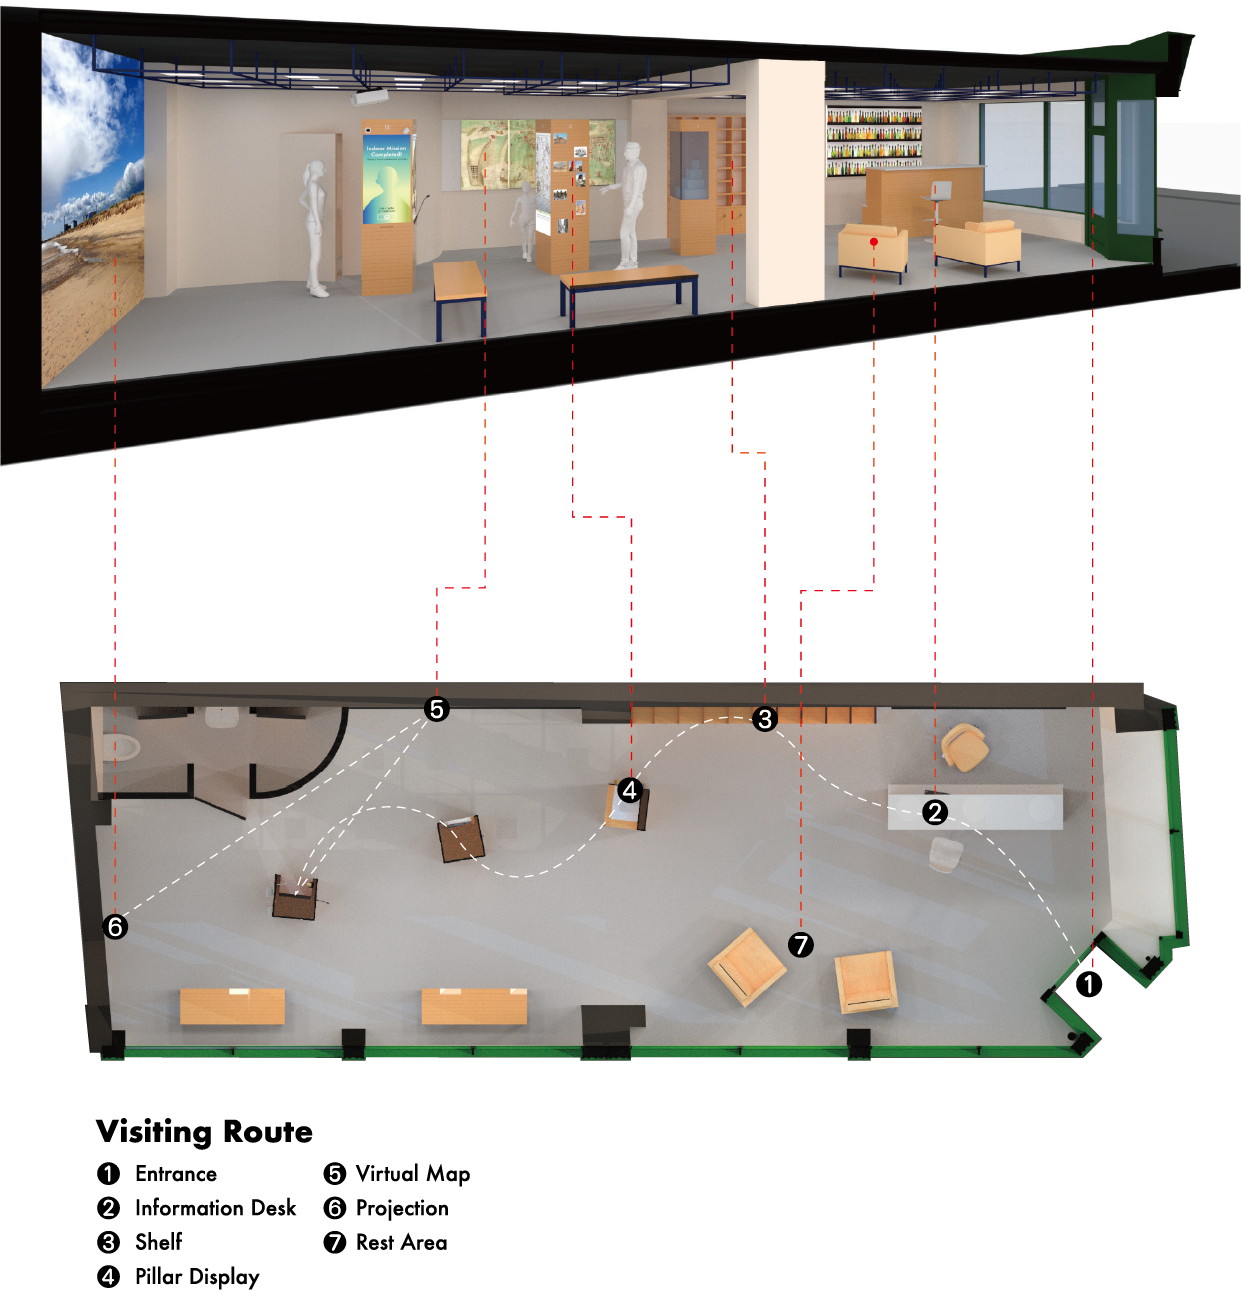
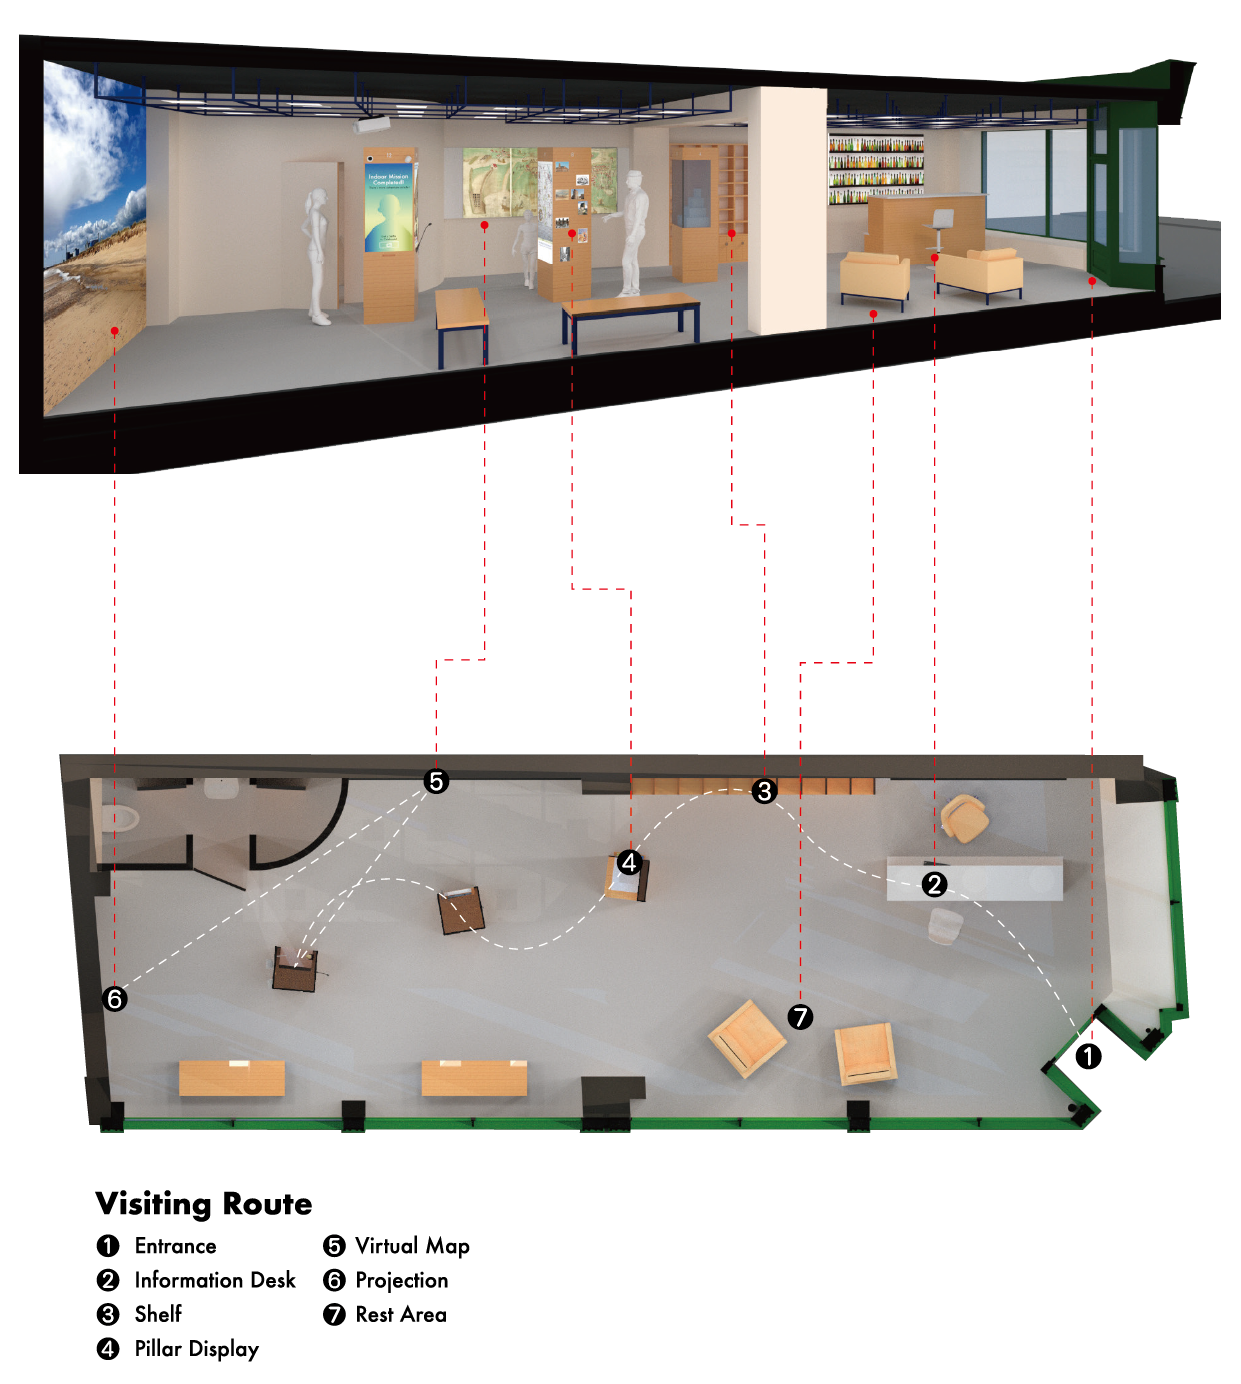
pb

Changed region(s): [[0.0, 0.0, 1.0, 0.3741], [0.0306, 0.4989, 0.9799, 0.9977], [0.9186, 0.6236, 0.9492, 0.6548]]

diff --git a/gy.html b/gy.html
@@ -122,25 +122,7 @@
             </div>
           </div>
         </div>
-        <!-- <div class="">
-          <div class="inner-intro">
-            <div class="container">
-              <div class="row">
-                <div class="col-lg-6 col-sm-4">
-                  <div class="h2 italic-title">
-                    Background
-                  </div>
-                </div>
-                <div class="col-lg-6 col-sm-8">
-                  <p><strong class="italic-title h5">About Great Yarmouth & Great Yarmouth Preservation Trust:</strong></p>
-                  <p>Great Yarmouth is a renowned coastal town in England. Positioned strategically between Britain and Europe, it holds significant historical importance in British trade.</p>
-                  <p>The client for this project is the Great Yarmouth Preservation Trust, established in 1979. Dedicated to preserving, protecting, and promoting the heritage of Great Yarmouth, it stands as one of the longest-established building preservation trusts in the UK.</p>
-                </div>
-              </div>
-            </div>
 
-          </div>
-        </div> -->
       </div>
       <div class="bg-w pt-5 pb-2">
         <div class="container">
@@ -252,7 +234,88 @@
           </div>
         </div>
       </div>
-
+      <div class="bg-bg pb-4 pt-5">
+        <div class="container">
+          <div class="row pos-rel">
+            <div class="col-md-4">
+              <div class="h2 sticky-top italic-title">
+                Final Design
+              </div>
+            </div>
+            <div class="col-md-8 pb-5">
+              <p><strong class="italic-title h5">Visiting Route</strong></p>
+              <p>Cultural Heritage Center is themed with a simple and natural style, aiming to provide visitors with a comfortable and well-lit space. Facilities include Pillar Display, Virtual Map, Exhibition Shelf, and Projection Wall, among others. These features allow for the flexibility to change exhibition content at any time, enhancing richness. The Rest Area is equipped with lounge chairs, providing travelers with a place to take a break.</p>
+              <img src="assets/img/gy3.png" class="w-100" alt="">
+            </div>
+          </div>
+          <div class="bg-w py-5 px-5 row">
+            <div class="col-md-6 order-md-2 order-1">
+              <div class="sticky-top pt-md-5 pb-5">
+                <p class=""><strong class="italic-title h5">Pilliar Display</strong></p>
+                <p>The exhibition hall contains three pillars, each of them four-sided, a large LCD screen on a wall, a projection corner and a shelf. The visiting route brings the visitors from pillar to pillar. There is a mix of real objects, LCD screens, 3D models, pictures, maps and also a phone.</p>
+                <p>Audiences are required to use smartphones to interact with displays on the pillars and engage in a series of interactive games. The purpose of these games is to enhance participants' interest and sense of identity regarding Great Yarmouth (First Pillar), provide basic information and knowledge about Great Yarmouth (Second Pillar), and invite participants to share their feedback on local attractions (Third Pillar). This feedback can serve as reference material for other tourists or the Cultural Heritage Center.</p>
+                <p>The interactive displays on the pillars include geological models, Q&A challenges, photo exhibits, voice interactions, and more. These elements offer a vivid and entertaining way for the public to easily digest information, fostering a positive connection. Finally, the experience extends to a smartphone app, guiding participants to explore outdoor attractions and creating a comprehensive itinerary for their visit.</p>
+              </div>
+            </div>
+            <div class="col-md-6 order-md-1 order-2">
+              <img src="assets/img/gy6.png"  class="w-100 pb-5">
+            </div>
+          </div>
+          <div class="container pb-5">
+            <div class="row">
+              <div class="col-md-6">
+                <img src="assets/img/gy10.png" class="w-100" alt="">
+              </div>
+              <div class="col-md-6">
+                  <img src="assets/img/gy9.png" class="w-100" alt="" style="margin-top: -80px;">
+              </div>
+            </div>
+          </div>
+        </div>
+      </div>
+      <div class="inner-intro">
+        <div class="container">
+          <div class="row">
+            <div class="col-md-6">
+              <div class="h2 italic-title">
+                Personal growth
+              </div>
+            </div>
+            <div class="col-md-6">
+              <ul>
+                <li>Learning how to collaborate remotely with others during the pandemic. 
+                  </li>
+                  <li>
+                    Gaining insights into various exhibition methods and techniques for guiding visitors through exhibition content.
+                  </li>
+              </ul>
+            </div>
+          </div>
+        </div>
+      </div>
+      <div class="bg-w py-5">
+        <div class="container">
+          <div class="row">
+            <div class="col-md-8">
+              <div class="h2 italic-title">
+                Next Project
+              </div>
+            </div>
+            <div class="col-md-4">
+              <a href="lt.html" class="d-block work-block">
+                  <img src="assets/img/lt.png" alt="" class="w-100">
+                  <div class="h4">Longtan Walker Pace Counter APP</div>
+                  <div class="h6">Longtan Road is a street with heavy traffic. By accumulating steps, people are encouraged to walk to reduce the traffic of cars and motorcycles.</div>
+                  
+                  <div class="d-flex flex-wrap tags">
+                      <div class="tag">Prototyping</div>
+                      <div class="tag">Research</div>
+                  </div>
+              </a>
+          </div>
+          </div>
+        </div>
+      </div>
     </main>
     <footer>
         <div class="container">
